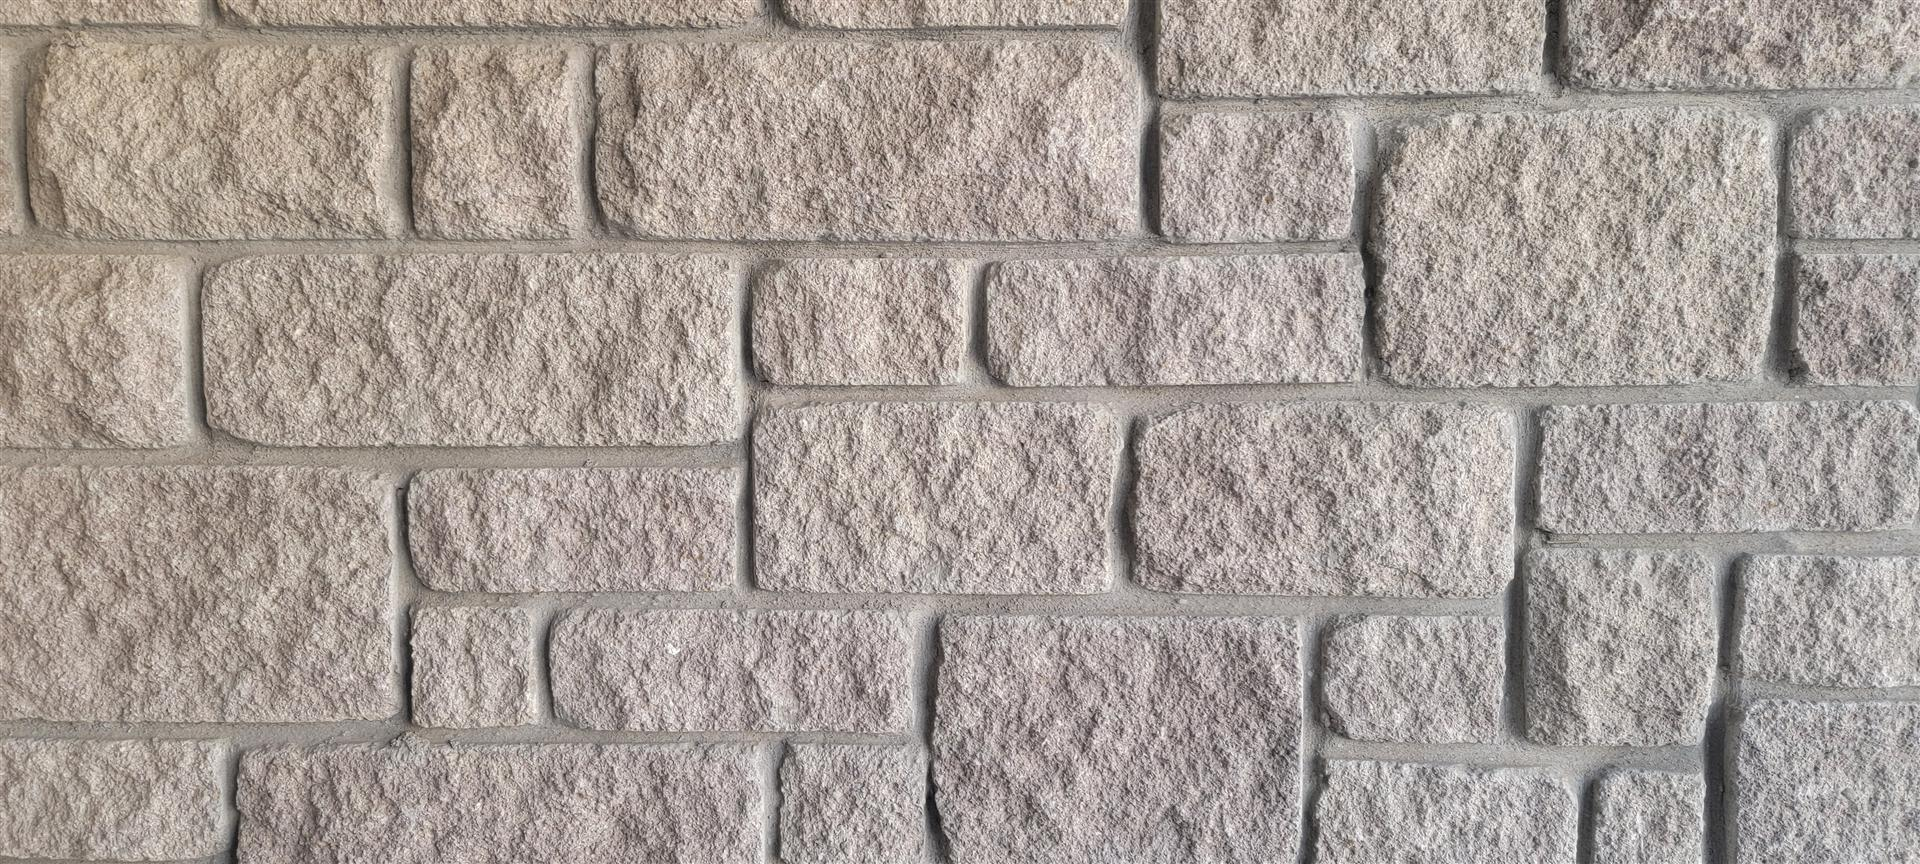
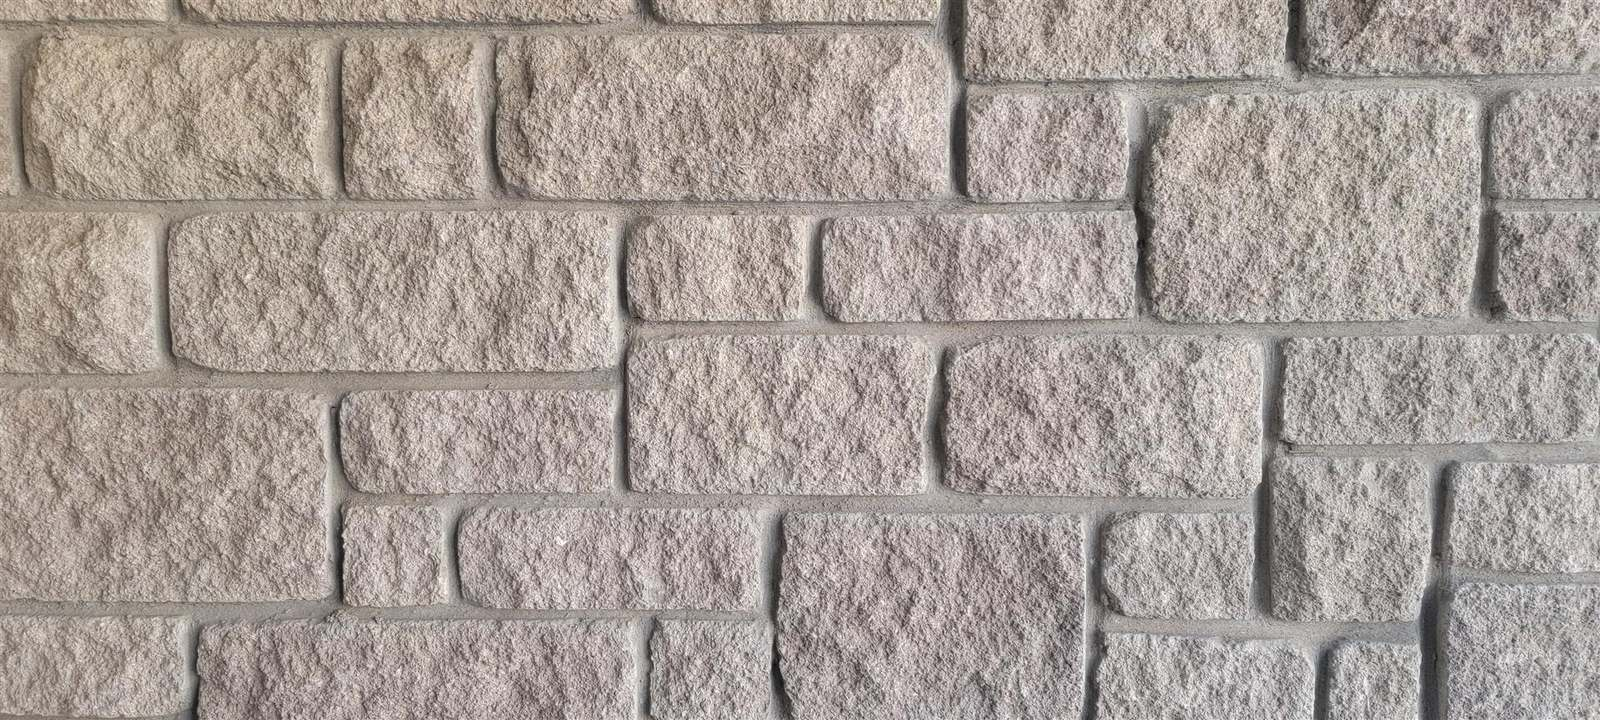
Add phone menu, faster loading, Google business info, Supabase keep-alive
- Phone menu: nav collapses behind a Menu button under 700px wide
- Load the Square booking widget only when the visitor nears it
- Compress the banner photo (516 KB -> 261 KB)
- Add schema.org BarberShop data (services, prices, phone, map, Instagram)
- GitHub Action pings Supabase every 3 days so the free project
  (and the chat widget) doesn't auto-pause

diff --git a/index.html b/index.html
@@ -14,6 +14,84 @@
     <link rel="preconnect" href="https://fonts.googleapis.com">
     <link rel="preconnect" href="https://fonts.gstatic.com" crossorigin>
     <link href="https://fonts.googleapis.com/css2?family=Bebas+Neue&family=Inter:wght@400;600;700&display=swap" rel="stylesheet">
+    <script type="application/ld+json">
+{
+        "@context": "https://schema.org",
+        "@type": "BarberShop",
+        "name": "T3Trims",
+        "description": "Premium barber services in Mississauga: fades, trims, beard grooming, and mobile VIP services.",
+        "url": "https://t3trims.netlify.app/",
+        "image": "https://t3trims.netlify.app/images/gallery/cut1.jpg",
+        "telephone": "+1-647-741-5316",
+        "priceRange": "$25-$80+",
+        "address": {
+            "@type": "PostalAddress",
+            "addressLocality": "Mississauga",
+            "addressRegion": "ON",
+            "addressCountry": "CA"
+        },
+        "geo": {
+            "@type": "GeoCoordinates",
+            "latitude": 43.6345,
+            "longitude": -79.7238
+        },
+        "hasMap": "https://www.google.com/maps?cid=13440267114156648736",
+        "areaServed": "Mississauga, ON",
+        "sameAs": [
+            "https://instagram.com/t3trims"
+        ],
+        "hasOfferCatalog": {
+            "@type": "OfferCatalog",
+            "name": "Barber Services",
+            "itemListElement": [
+                {
+                    "@type": "Offer",
+                    "priceCurrency": "CAD",
+                    "itemOffered": {
+                        "@type": "Service",
+                        "name": "Fresh Up",
+                        "description": "Fade, beard, trim"
+                    },
+                    "price": 35
+                },
+                {
+                    "@type": "Offer",
+                    "priceCurrency": "CAD",
+                    "itemOffered": {
+                        "@type": "Service",
+                        "name": "VIP Service",
+                        "description": "Fresh up, massage, face cleanse"
+                    },
+                    "price": 80
+                },
+                {
+                    "@type": "Offer",
+                    "priceCurrency": "CAD",
+                    "itemOffered": {
+                        "@type": "Service",
+                        "name": "Barber on the GO!",
+                        "description": "Mobile VIP service, the barber comes to you"
+                    },
+                    "priceSpecification": {
+                        "@type": "PriceSpecification",
+                        "minPrice": 80,
+                        "priceCurrency": "CAD"
+                    }
+                },
+                {
+                    "@type": "Offer",
+                    "priceCurrency": "CAD",
+                    "itemOffered": {
+                        "@type": "Service",
+                        "name": "Student Discount",
+                        "description": "Haircut for students (student ID required)"
+                    },
+                    "price": 25
+                }
+            ]
+        }
+    }
+    </script>
     <style>
         :root { --maroon: #4C0A0A; --accent: #b3121b; --accent-dark: #8e0e15; --ink: #141414; --text: #2b2b2b; --muted: #6b6b6b; --bg: #f4f1ee; --card: #f6f2ef; }
         h2 { font-family: 'Bebas Neue', Impact, 'Arial Narrow', sans-serif; font-weight: 400; font-size: clamp(2rem, 5vw, 2.75rem); letter-spacing: 2px; line-height: 1.1; color: var(--ink); margin: 40px 0 20px; }
@@ -27,6 +105,17 @@
         nav { display: flex; justify-content: center; background: var(--ink); padding: 10px; flex-wrap: wrap; position: sticky; top: 0; z-index: 1000; }
         nav a { color: #fff; text-decoration: none; padding: 10px 20px; font-size: 15px; letter-spacing: 0.5px; transition: box-shadow 0.2s; }
         nav a:hover { box-shadow: inset 0 -2px var(--accent); }
+        .nav-links { display: flex; flex-wrap: wrap; justify-content: center; }
+        .nav-brand, .nav-toggle { display: none; }
+        @media (max-width: 700px) {
+            nav { justify-content: space-between; align-items: center; padding: 6px 12px; }
+            .nav-brand { display: block; font-family: 'Bebas Neue', Impact, 'Arial Narrow', sans-serif; font-size: 1.6rem; letter-spacing: 2px; padding: 6px 4px; }
+            .nav-brand:hover { box-shadow: none; }
+            .nav-toggle { display: block; background: none; border: 1px solid rgba(255, 255, 255, 0.3); border-radius: 6px; color: #fff; font: 600 15px 'Inter', 'Segoe UI', Arial, sans-serif; padding: 8px 14px; cursor: pointer; }
+            .nav-links { display: none; flex-basis: 100%; flex-direction: column; text-align: center; padding: 6px 0 4px; }
+            nav.open .nav-links { display: flex; }
+            .nav-links a { padding: 13px; border-top: 1px solid rgba(255, 255, 255, 0.08); }
+        }
         .book-now-btn { position: fixed; bottom: 20px; right: 20px; background: var(--accent); color: #fff; padding: 15px 22px; border-radius: 6px; text-decoration: none; font-weight: 700; letter-spacing: 0.5px; box-shadow: 0 6px 16px rgba(0, 0, 0, 0.25); transition: background 0.2s; }
         .book-now-btn:hover { background: var(--accent-dark); }
         .container { max-width: 1100px; margin: 30px auto; padding: 20px 40px 40px; background: #fff; border-radius: 8px; box-shadow: 0 10px 40px rgba(0, 0, 0, 0.06); }
@@ -92,6 +181,7 @@
         .map-container h2, .booking-container h2 { color: #fff; margin-top: 10px; }
         .map-container h2::after, .booking-container h2::after { margin: 10px auto 0; }
         .map-container iframe, .booking-container iframe { width: 100%; height: 450px; border-radius: 5px; border: 0;}
+        #squareBooking { min-height: 500px; }
         .reveal { opacity: 0; transform: translateY(20px); transition: opacity 0.7s ease, transform 0.7s ease; }
         .reveal.visible { opacity: 1; transform: none; }
         footer { background: var(--ink); color: #fff; text-align: center; padding: 40px 20px 30px; margin-top: 40px; }
@@ -159,13 +249,17 @@
         <p>Precision Cuts. Premium Service.</p>
     </header>
     <nav>
-        <a href="#about">About Us</a>
-        <a href="#booking">Book Now</a>
-        <a href="#services">Services</a>
-        <a href="#style-finder">Style Finder</a>
-        <a href="tips.html">Grooming Tips</a>
-        <a href="#contact">Contact Me</a>
-        <a href="https://instagram.com/t3trims" target="_blank">Instagram</a>
+        <a href="#" class="nav-brand">T3TRIMS</a>
+        <button class="nav-toggle" aria-expanded="false" aria-controls="navLinks">☰ Menu</button>
+        <div class="nav-links" id="navLinks">
+            <a href="#about">About Us</a>
+            <a href="#booking">Book Now</a>
+            <a href="#services">Services</a>
+            <a href="#style-finder">Style Finder</a>
+            <a href="tips.html">Grooming Tips</a>
+            <a href="#contact">Contact Me</a>
+            <a href="https://instagram.com/t3trims" target="_blank">Instagram</a>
+        </div>
     </nav>
     <a href="#booking" class="book-now-btn">Book Now</a>
 
@@ -194,7 +288,7 @@
         <section id="booking" class="booking-container">
             <h2>Book an Appointment</h2>
             <p style="color: #fff;">Use our Square booking system to schedule your appointment below.</p>
-            <!-- Start Square Appointments Embed Code --><script src='https://square.site/appointments/buyer/widget/8zvxgymjgogn2w/LRF1W79CM4Q2P.js'></script><!-- End Square Appointments Embed Code -->
+            <div id="squareBooking"></div>
         </section>
 
         <section id="services">
@@ -361,6 +455,20 @@ Could not recommend him enough if you have an important occasion coming up and w
     </div>
 
     <script>
+        // Phone menu: the ☰ button shows/hides the nav links; picking a link closes it
+        const siteNav = document.querySelector("nav");
+        const navToggle = document.querySelector(".nav-toggle");
+        navToggle.addEventListener("click", () => {
+            const open = siteNav.classList.toggle("open");
+            navToggle.setAttribute("aria-expanded", open);
+            navToggle.textContent = open ? "✕ Close" : "☰ Menu";
+        });
+        document.querySelectorAll(".nav-links a").forEach(a => a.addEventListener("click", () => {
+            siteNav.classList.remove("open");
+            navToggle.setAttribute("aria-expanded", "false");
+            navToggle.textContent = "☰ Menu";
+        }));
+
         // Keep the footer year current
         document.querySelectorAll(".year").forEach(el => el.textContent = new Date().getFullYear());
 
@@ -470,6 +578,27 @@ Could not recommend him enough if you have an important occasion coming up and w
             styleResult.hidden = false;
             styleResult.scrollIntoView({ behavior: "smooth", block: "nearest" });
         }));
+
+        // Square booking calendar: load it only as the visitor nears the booking section,
+        // so it doesn't hold up the rest of the page. Square's script inserts the
+        // calendar right where its <script> tag sits, so we add the tag inside #squareBooking.
+        const SQUARE_WIDGET = "https://square.site/appointments/buyer/widget/8zvxgymjgogn2w/LRF1W79CM4Q2P.js";
+        let squareLoaded = false;
+        function loadSquareBooking() {
+            if (squareLoaded) return;
+            squareLoaded = true;
+            const s = document.createElement("script");
+            s.src = SQUARE_WIDGET;
+            document.getElementById("squareBooking").appendChild(s);
+        }
+        if ("IntersectionObserver" in window) {
+            const bookingWatcher = new IntersectionObserver(entries => {
+                if (entries.some(e => e.isIntersecting)) { loadSquareBooking(); bookingWatcher.disconnect(); }
+            }, { rootMargin: "800px 0px" });
+            bookingWatcher.observe(document.getElementById("booking"));
+        } else {
+            loadSquareBooking();
+        }
 
         // Gallery lightbox
         const galleryItems = [...document.querySelectorAll(".gallery-item")];

diff --git a/tips.html b/tips.html
@@ -27,6 +27,17 @@
         nav { display: flex; justify-content: center; background: var(--ink); padding: 10px; flex-wrap: wrap; position: sticky; top: 0; z-index: 1000; }
         nav a { color: #fff; text-decoration: none; padding: 10px 20px; font-size: 15px; letter-spacing: 0.5px; transition: box-shadow 0.2s; }
         nav a:hover { box-shadow: inset 0 -2px var(--accent); }
+        .nav-links { display: flex; flex-wrap: wrap; justify-content: center; }
+        .nav-brand, .nav-toggle { display: none; }
+        @media (max-width: 700px) {
+            nav { justify-content: space-between; align-items: center; padding: 6px 12px; }
+            .nav-brand { display: block; font-family: 'Bebas Neue', Impact, 'Arial Narrow', sans-serif; font-size: 1.6rem; letter-spacing: 2px; padding: 6px 4px; }
+            .nav-brand:hover { box-shadow: none; }
+            .nav-toggle { display: block; background: none; border: 1px solid rgba(255, 255, 255, 0.3); border-radius: 6px; color: #fff; font: 600 15px 'Inter', 'Segoe UI', Arial, sans-serif; padding: 8px 14px; cursor: pointer; }
+            .nav-links { display: none; flex-basis: 100%; flex-direction: column; text-align: center; padding: 6px 0 4px; }
+            nav.open .nav-links { display: flex; }
+            .nav-links a { padding: 13px; border-top: 1px solid rgba(255, 255, 255, 0.08); }
+        }
         nav a.active { box-shadow: inset 0 -2px var(--accent); }
         .book-now-btn { position: fixed; bottom: 20px; right: 20px; background: var(--accent); color: #fff; padding: 15px 22px; border-radius: 6px; text-decoration: none; font-weight: 700; letter-spacing: 0.5px; box-shadow: 0 6px 16px rgba(0, 0, 0, 0.25); transition: background 0.2s; }
         .book-now-btn:hover { background: var(--accent-dark); }
@@ -88,13 +99,17 @@
         <p>Precision Cuts. Premium Service.</p>
     </header>
     <nav>
-        <a href="index.html#about">About Us</a>
-        <a href="index.html#booking">Book Now</a>
-        <a href="index.html#services">Services</a>
-        <a href="index.html#style-finder">Style Finder</a>
-        <a href="tips.html" class="active">Grooming Tips</a>
-        <a href="index.html#contact">Contact Me</a>
-        <a href="https://instagram.com/t3trims" target="_blank">Instagram</a>
+        <a href="index.html" class="nav-brand">T3TRIMS</a>
+        <button class="nav-toggle" aria-expanded="false" aria-controls="navLinks">☰ Menu</button>
+        <div class="nav-links" id="navLinks">
+            <a href="index.html#about">About Us</a>
+            <a href="index.html#booking">Book Now</a>
+            <a href="index.html#services">Services</a>
+            <a href="index.html#style-finder">Style Finder</a>
+            <a href="tips.html" class="active">Grooming Tips</a>
+            <a href="index.html#contact">Contact Me</a>
+            <a href="https://instagram.com/t3trims" target="_blank">Instagram</a>
+        </div>
     </nav>
     <a href="https://app.squareup.com/appointments/book/8zvxgymjgogn2w/LRF1W79CM4Q2P/start" class="book-now-btn" target="_blank">Book Now</a>
 
@@ -185,6 +200,20 @@
     </div>
 
     <script>
+        // Phone menu: the ☰ button shows/hides the nav links; picking a link closes it
+        const siteNav = document.querySelector("nav");
+        const navToggle = document.querySelector(".nav-toggle");
+        navToggle.addEventListener("click", () => {
+            const open = siteNav.classList.toggle("open");
+            navToggle.setAttribute("aria-expanded", open);
+            navToggle.textContent = open ? "✕ Close" : "☰ Menu";
+        });
+        document.querySelectorAll(".nav-links a").forEach(a => a.addEventListener("click", () => {
+            siteNav.classList.remove("open");
+            navToggle.setAttribute("aria-expanded", "false");
+            navToggle.textContent = "☰ Menu";
+        }));
+
         // Keep the footer year current
         document.querySelectorAll(".year").forEach(el => el.textContent = new Date().getFullYear());
 
